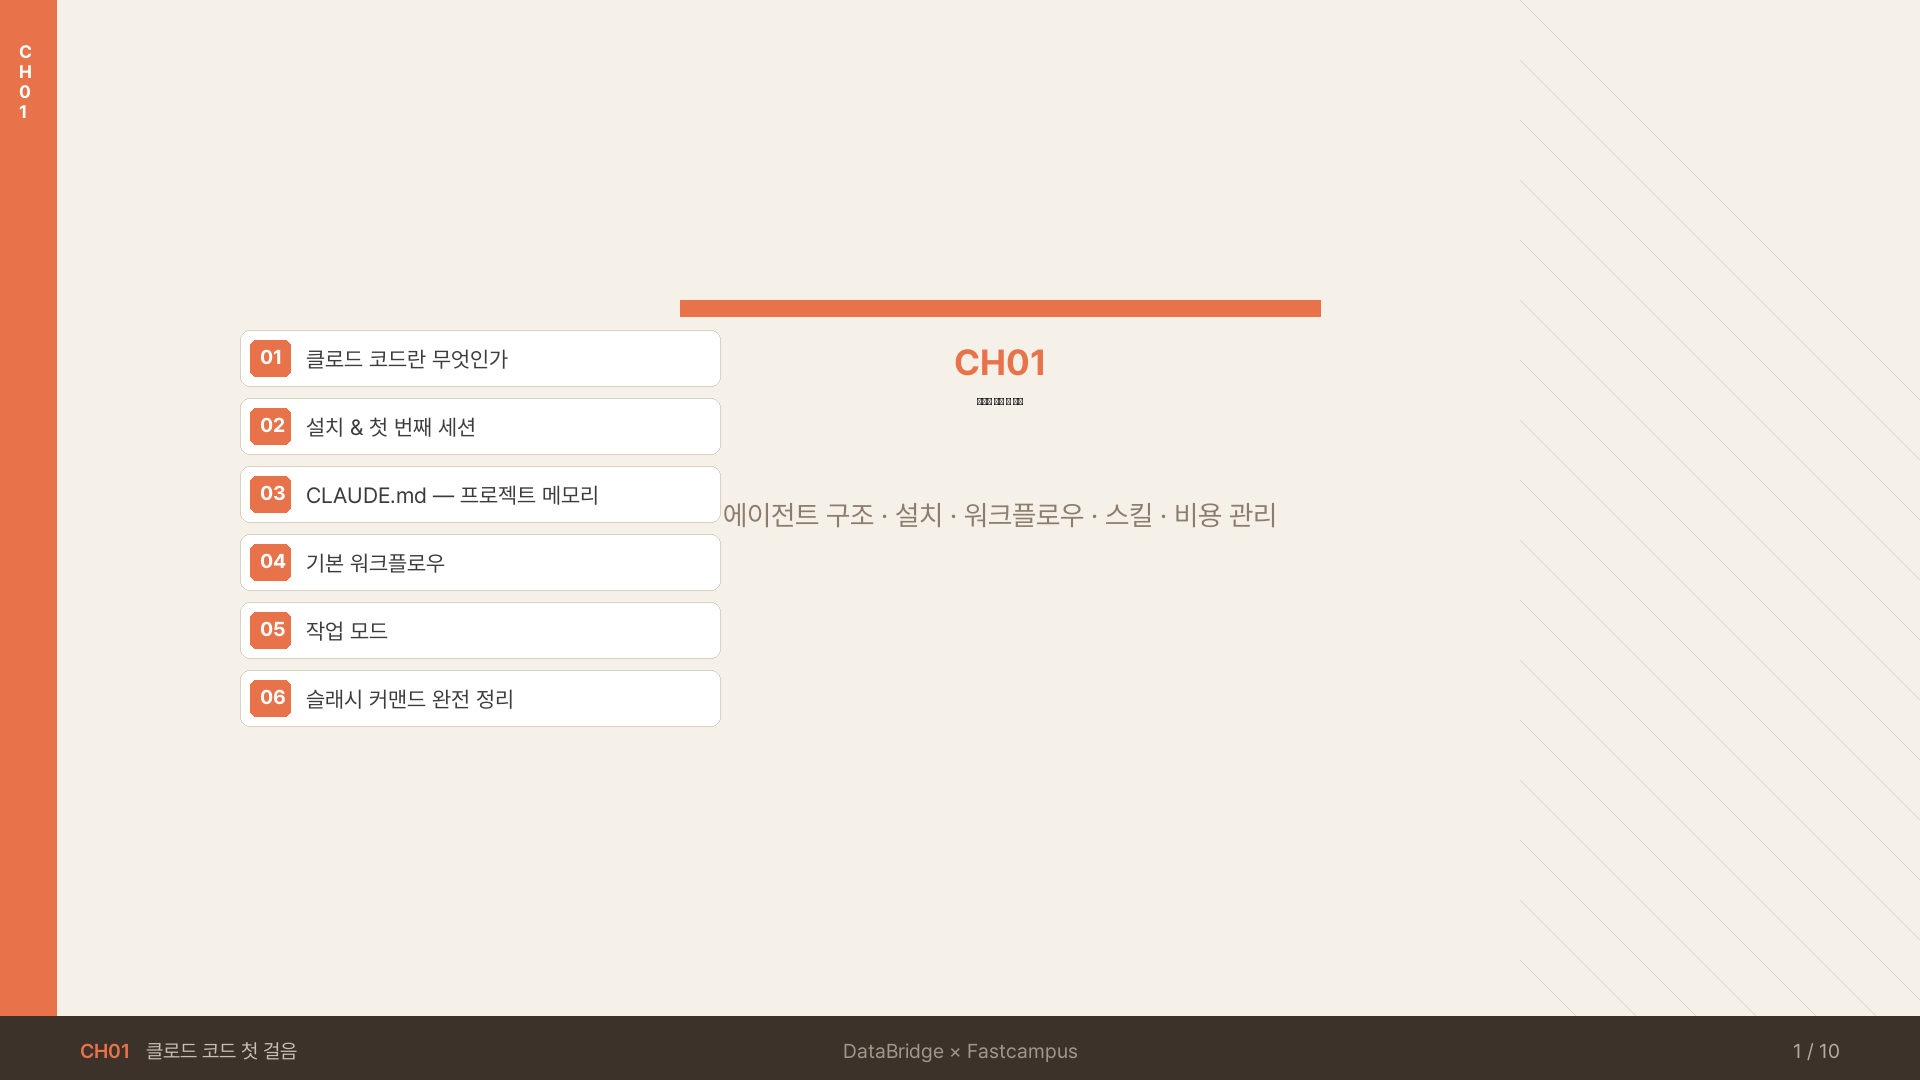
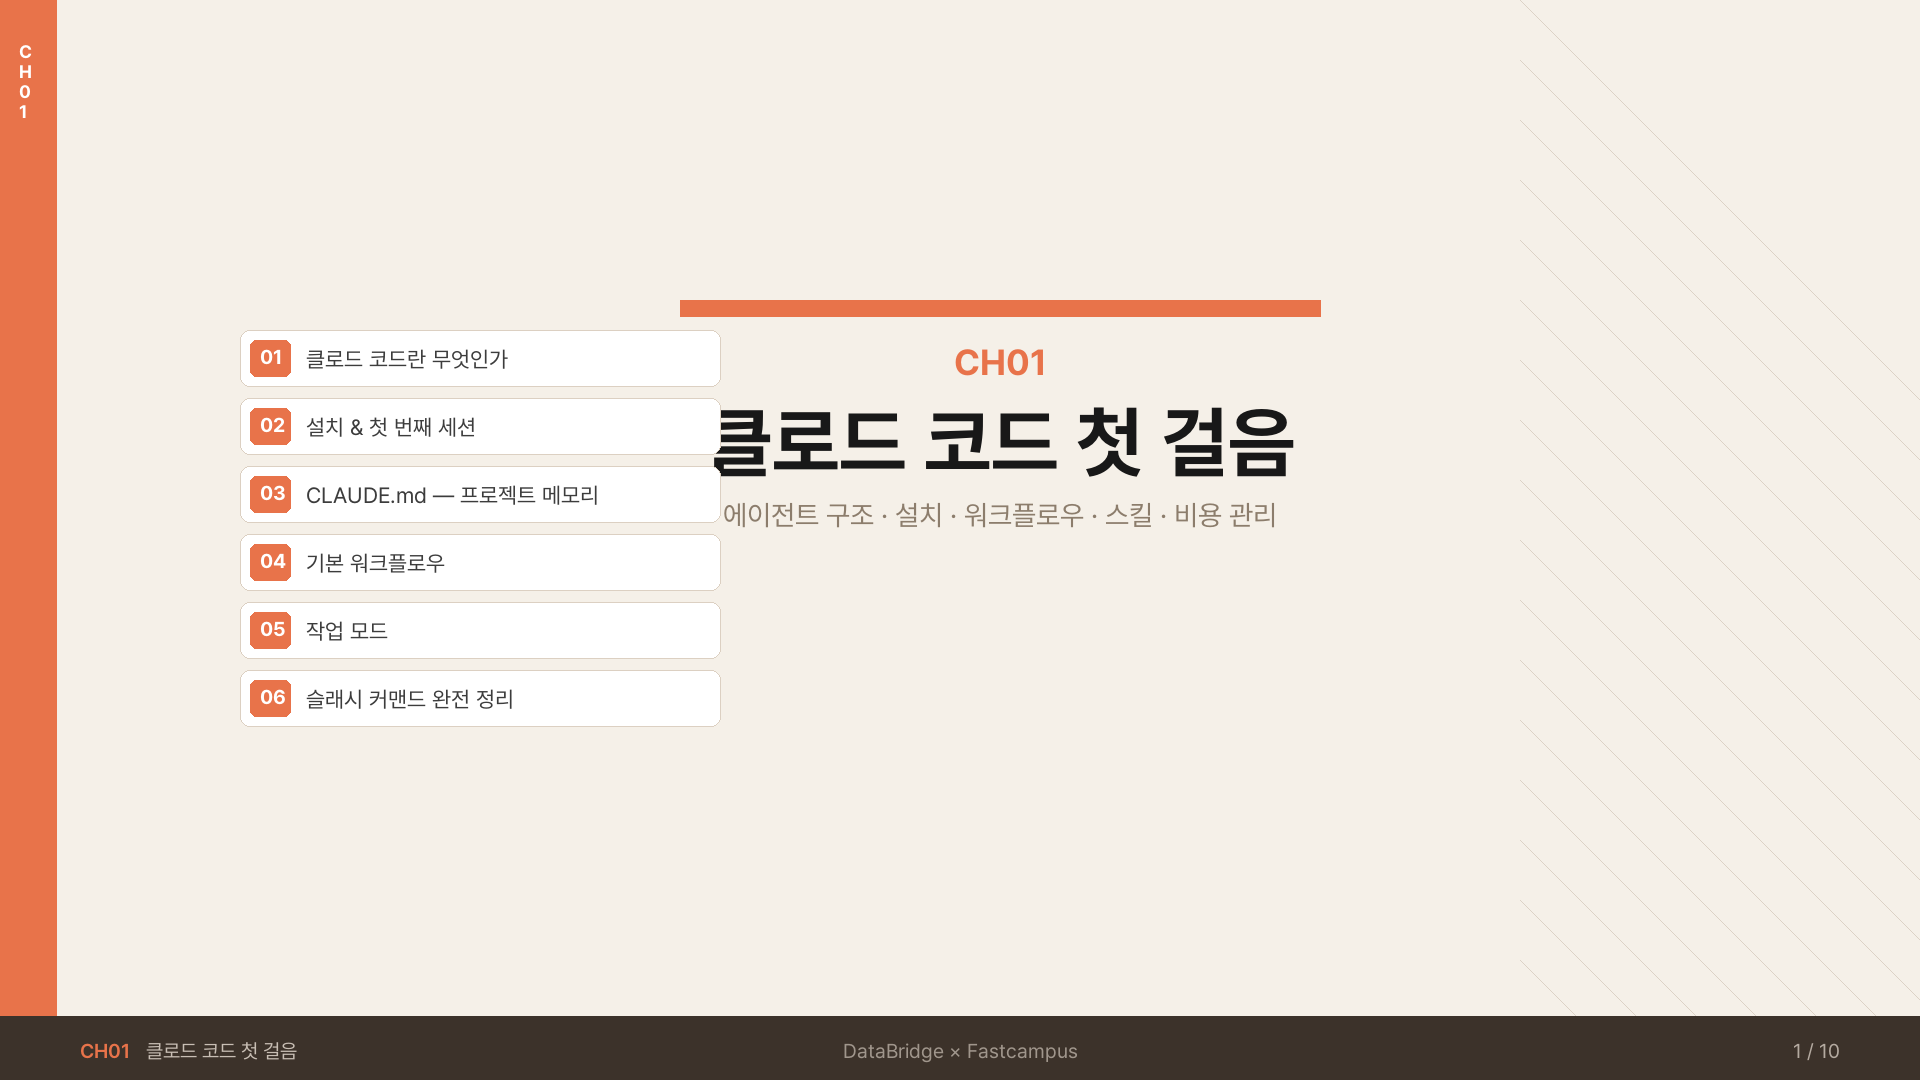
CH01 슬라이드 폰트 수정 (ExtraBold → Bold)

Changed region(s): [[0.375, 0.3667, 0.6875, 0.4583]]

diff --git a/scripts/make_ch01_slides.py b/scripts/make_ch01_slides.py
@@ -30,7 +30,7 @@ FP = {
     "r":  "/Users/sy/Library/Fonts/Pretendard-Regular.otf",
     "sb": "/Users/sy/Library/Fonts/Pretendard-SemiBold.otf",
     "b":  "/Users/sy/Library/Fonts/Pretendard-Bold.otf",
-    "eb": "/Users/sy/Library/Fonts/Pretendard-ExtraBold.otf",
+    
     "mono": "/System/Library/Fonts/Menlo.ttc",
 }
 _fc = {}
@@ -154,7 +154,7 @@ for i in range(0,H,60):
 CX=W//2+40
 d.rectangle([CX-320,300,CX+320,316], fill=ORANGE)
 text(d, CX, 340, "CH01", 36, "b", ORANGE, "center")
-text(d, CX, 395, "클로드 코드 첫 걸음", 78, "eb", BLACK, "center")
+text(d, CX, 395, "클로드 코드 첫 걸음", 78, "b", BLACK, "center")
 text(d, CX, 498, "에이전트 구조 · 설치 · 워크플로우 · 스킬 · 비용 관리", 28, "r", DIM, "center")
 
 # 클립 목록 카드
